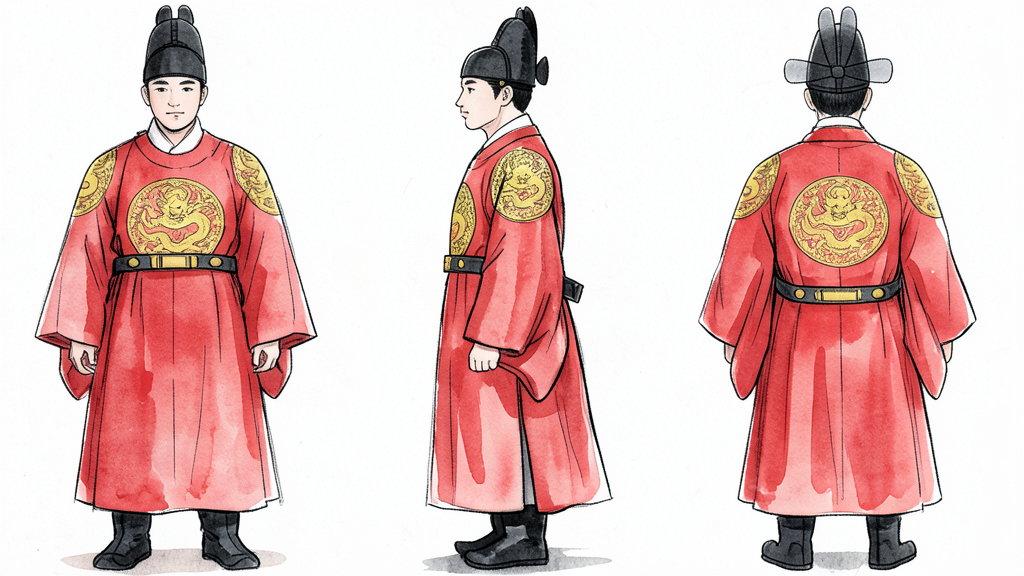
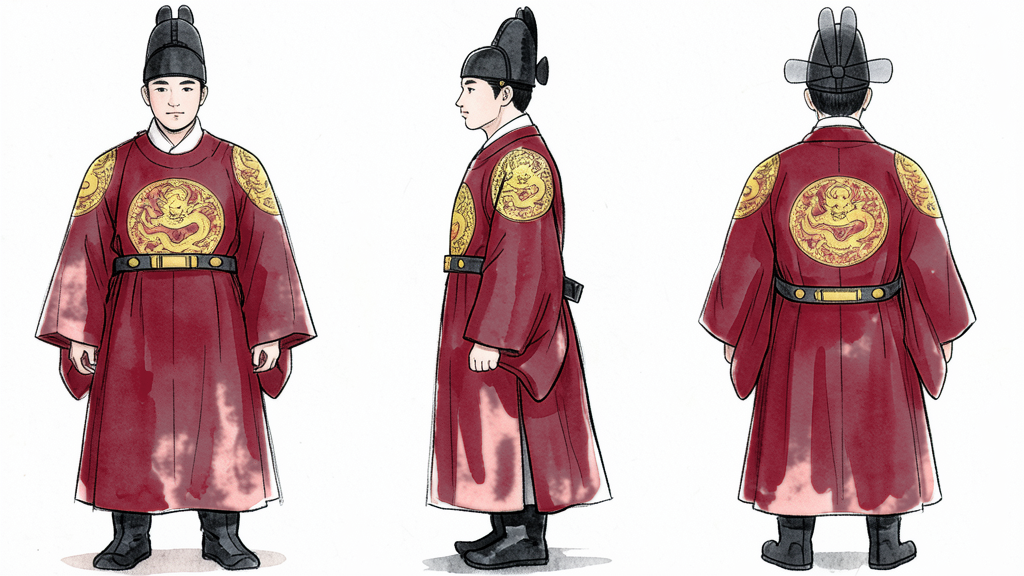
조선 왕 시트(기본_왕·태종) 곤룡포를 대홍으로, 옷·모자는 캐릭터 시트를 주고 고치는 규칙
Claude-Session: https://claude.ai/code/session_01HCMiuvaPhF31KT9z7AdLXs

Changed region(s): [[0.0312, 0.2188, 0.3125, 0.9062], [0.6875, 0.2188, 0.9688, 0.9062], [0.4062, 0.2188, 0.5938, 0.9062]]

diff --git a/수묵담채화.md b/수묵담채화.md
@@ -109,6 +109,8 @@
   · 사모: 'hat' 이라는 말을 쓰지 않음 → "black brimless two-tiered samo cap with two flat oval wings sticking out to the left and right" (관복+사모, 도포+갓으로 짝지음)
   · 익선관: "black brimless two-tiered cap with two cicada-wing shaped wings standing upright at the back"
   · 곤룡포 색: "deep crimson-red royal robe (daehong: a rich dark red like red wine, not orange, not pink, not bright scarlet)" — 주황·분홍·밝은 빨강으로 나오면 불합격(사용자 결정 2026-10-31)
+  · 옷 색·모자를 고칠 때는 프로그램으로 색만 바꾸지 않고 **그 인물 캐릭터 시트(앞모습)와 모자 앞모습을 refs 로 주고** 인물 부분을 다시 그림(fixes, 사용자 결정 2026-11-01).
+    시트가 틀리면 장면이 다 틀리므로 시트부터 고침 — 3편에서 기본_왕·태종·세종 시트가 밝은 빨강이라 왕 장면이 모두 밝은 빨강이었음 → 시트를 대홍으로 고침(2026-11-01)
   · 검수: 왕·관리가 나오는 그림은 머리와 옷을 잘라 크게 열어 모자 모양·옷 색까지 확인(작은 모음표로 넘기지 않음)
 - 그림 주문에 **'없는 것'을 말하지 않음**(2026-11-01 3편 검수): 'no brim'·'no hat'·'nothing on the ground: no hat' 처럼 쓰면 오히려 챙·모자가 그려짐 →
   있어야 할 모양만 적음('two flat oval wings out to the sides', 'empty bare ground'). 원래 주문서에 '떨어진 갓' 같은 연출이 있으면 문장째 뺌.
